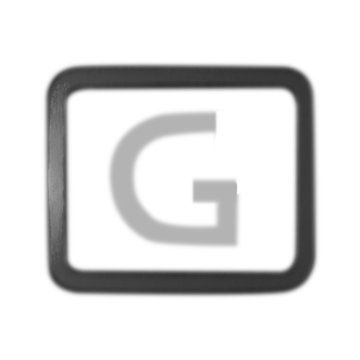
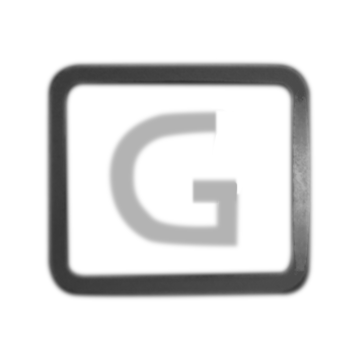
goodbye vlad. hello passenger

Changed region(s): [[0.1222, 0.1528, 0.8861, 0.825]]

diff --git a/js/pwrdoor.js b/js/pwrdoor.js
@@ -45,6 +45,10 @@ $(document).ready(function(){
 
   $("#dashboard").on('click', '#P', PClick);
 
+  $("#dashboard").on('click', '#C', CClick);
+
+  $("#dashboard").on('click', '#Q', QClick);
+
   $("#dashboard").on('click', '#hazard_up', hazardUpClick);
 
   $("#dashboard").on('click', '#hazard_down', hazardDownClick);
@@ -63,12 +67,12 @@ $(document).ready(function(){
     if(intro){
       //load dashboard
       $("#dashboard").append("<img id='dash' src='images/dash.png' alt='' />");
-      $("#port").append("<img id='vlad' src='images/vladimir.png' alt='' />");
+      $("#port").append("<img id='passenger' src='images/passenger.png' alt='' />");
       $("#port").append("<img id='pistonL' src='images/pistonL.png' alt='' />");
       $("#port").append("<img id='pistonR' src='images/pistonR.png' alt='' />");
       //move logo up
       //$("#logo").css("z-index", "-1")
-      $("#logo").animate({top: "-400px"}, 750, "swing", function(){
+      $("#logo").animate({top: "-200px"}, 750, "swing", function(){
         introAnimation();
       });
       intro = false;
@@ -76,7 +80,7 @@ $(document).ready(function(){
   }
 
   function introAnimation(){
-    $("#vlad").animate({bottom: "-10px"}, 625, "swing");
+    $("#passenger").animate({bottom: "-10px"}, 625, "swing");
     $("#pistonL").animate({top: "0px"}, 625, "easeOutBack");
     $("#pistonR").animate({top: "0px"}, 625, "easeOutBack");
     $("#logo").animate({top: "-5%"}, 625, "easeOutBack").animate({top: "-200px"}, 500, "swing");
@@ -103,6 +107,12 @@ $(document).ready(function(){
       //P
       $("#dashboard").append("<img id='P' src='images/P.png' alt='' />");
       $("#dashboard").append("<img id='P_hover' src='images/P_hover.png' alt='' />");
+      //C
+      $("#dashboard").append("<img id='C' src='images/C.png' alt='' />");
+      $("#dashboard").append("<img id='C_hover' src='images/C_hover.png' alt='' />");
+      //Q
+      $("#dashboard").append("<img id='Q' src='images/Q.png' alt='' />");
+      $("#dashboard").append("<img id='Q_hover' src='images/Q_hover.png' alt='' />");
       //hazard down
       $("#dashboard").append("<img id='hazard_down' src='images/hazard_down.png' alt='' />");
       $("#dashboard").append("<img id='hazard_down_hover' src='images/hazard_down_hover.png' alt='' />");
@@ -110,19 +120,29 @@ $(document).ready(function(){
       $("#left_hover").hide();
       $("#right_hover").hide();
       $("#brights_hover").hide();
+      $("#hazard_up_hover").hide();
       $("#M_hover").hide();
       $("#G_hover").hide();
       $("#P_hover").hide();
-      $("#hazard_up_hover").hide();
+      $("#C_hover").hide();
+      $("#Q_hover").hide();
       $("#hazard_down_hover").hide();
       //hide nav for fade-in
+      $("#hazard_up").hide()
       $("#M").hide();
       $("#G").hide();
       $("#P").hide();
+      $("#C").hide();
+      $("#Q").hide();
+      $("#hazard_down").hide()
       //nav fade-in
+      $("#hazard_up").delay(250).fadeIn(1000);
       $("#M").delay(250).fadeIn(1000);
       $("#G").delay(250).fadeIn(1000);
       $("#P").delay(250).fadeIn(1000);
+      $("#C").delay(250).fadeIn(1000);
+      $("#Q").delay(250).fadeIn(1000);
+      $("#hazard_down").delay(250).fadeIn(1000);
       //debug
       $("#debug").html("<p>intro complete</p>");
     });
@@ -135,7 +155,7 @@ $(document).ready(function(){
     $("#pistonL").animate({right: "+131%"}, 500, "swing");
     $("#pistonR").animate({left: "+61%"}, 500, "swing");
     $("#content").animate({left: "66%"}, 500, "swing");
-    $("#vlad").animate({right: "33%"}, 500, "swing");
+    $("#passenger").animate({right: "33%"}, 500, "swing");
     $("#left_hover").show().delay(500).fadeOut(100);
   }
 
@@ -145,7 +165,7 @@ $(document).ready(function(){
     $("#pistonL").animate({right: "+61%"}, 500, "swing");
     $("#pistonR").animate({left: "+131%"}, 500, "swing");
     $("#content").animate({left: "33%"}, 500, "swing");
-    $("#vlad").animate({right: "66%"}, 500, "swing");
+    $("#passenger").animate({right: "66%"}, 500, "swing");
     $("#right_hover").show().delay(500).fadeOut(100);
   }
 
@@ -155,7 +175,7 @@ $(document).ready(function(){
     $("#pistonL").animate({right: "+90%"}, 500, "swing");
     $("#pistonR").animate({left: "+90%"}, 500, "swing");
     $("#content").animate({left: "50%"}, 500, "swing");
-    $("#vlad").animate({right: "50%"}, 500, "swing");
+    $("#passenger").animate({right: "50%"}, 500, "swing");
     $("#brights_hover").show().delay(500).fadeOut(100);
   }
 
@@ -192,12 +212,30 @@ $(document).ready(function(){
     $("#P_hover").show();
   }
 
+  function CClick(){
+    $("#debug").html("<p>Code</p>")
+    clearContent();
+    for(var i=0; i<25; i++){
+      $("#content").append("<p id='code"+i+"'>Code "+i+"</p>")
+      $("#code"+i).hide().delay(500).fadeIn(500);
+    }
+    clearHovers();
+    $("#C_hover").show();
+  }
+
+  function QClick(){
+    $("#debug").html("<p>?</p>")
+    clearContent();
+    clearHovers();
+    $("#Q_hover").show();
+  }
+
   function hazardUpClick(){
     $("#debug").html("<p>hazardUp</p>")
     if(!dashUp){
       $("#hazard_up_hover").show().delay(500).fadeOut(100);
       $("#dashboard").animate({top: "-68%"}, 500, "swing");
-      $("#vlad").animate({bottom: "-8%"}, 500, "swing");
+      $("#passenger").animate({bottom: "-8%"}, 500, "swing");
       $("#pistonL").animate({top: "-68%"}, 500, "swing");
       $("#pistonR").animate({top: "-68%"}, 500, "swing");
       dashUp = true;
@@ -208,7 +246,7 @@ $(document).ready(function(){
     if(dashUp){
       $("#hazard_down_hover").show().delay(500).fadeOut(100);
       $("#dashboard").animate({top: "0px"}, 500, "easeOutBack");
-      $("#vlad").animate({bottom: "-10px"}, 500, "swing");
+      $("#passenger").animate({bottom: "-10px"}, 500, "swing");
       $("#pistonL").animate({top: "0px"}, 500, "easeOutBack");
       $("#pistonR").animate({top: "0px"}, 500, "easeOutBack");
       $("#logo").animate({top: "-5%"}, 625, "easeOutBack").animate({top: "-200px"}, 500, "swing");
@@ -220,6 +258,8 @@ $(document).ready(function(){
     $("#M_hover").hide();
     $("#G_hover").hide();
     $("#P_hover").hide();
+    $("#C_hover").hide();
+    $("#Q_hover").hide();
   }
 
   function clearContent(){

diff --git a/css/layout.css b/css/layout.css
@@ -11,7 +11,7 @@ a {
 }
 
 body {
-  background-color: #000;
+  background-color: #140517;
   margin: 0;
   padding: 0;
 }
@@ -62,7 +62,7 @@ body {
   left: 90%;
 }
 
-#vlad {
+#passenger {
   z-index: +5;
   position: absolute;
   bottom: -100%;
@@ -113,23 +113,39 @@ body {
   z-index: +5;
   position: absolute;
   top: 27.2%;
-  left: 43.3%;
+  left: 43.4%;
   width: 16%;
 }
 
 #G, #G_hover {
   z-index: +5;
   position: absolute;
-  top: 35.5%;
-  left: 43.3%;
+  top: 35.7%;
+  left: 43.4%;
   width: 16%;
 }
 
 #P, #P_hover {
   z-index: +5;
   position: absolute;
-  top: 43.8%;
-  left: 43.3%;
+  top: 43.9%;
+  left: 43.4%;
+  width: 16%;
+}
+
+#C, #C_hover {
+  z-index: +5;
+  position: absolute;
+  top: 52.5%;
+  left: 43.4%;
+  width: 16%;
+}
+
+#Q, #Q_hover {
+  z-index: +5;
+  position: absolute;
+  top: 60.8%;
+  left: 43.4%;
   width: 16%;
 }
 
